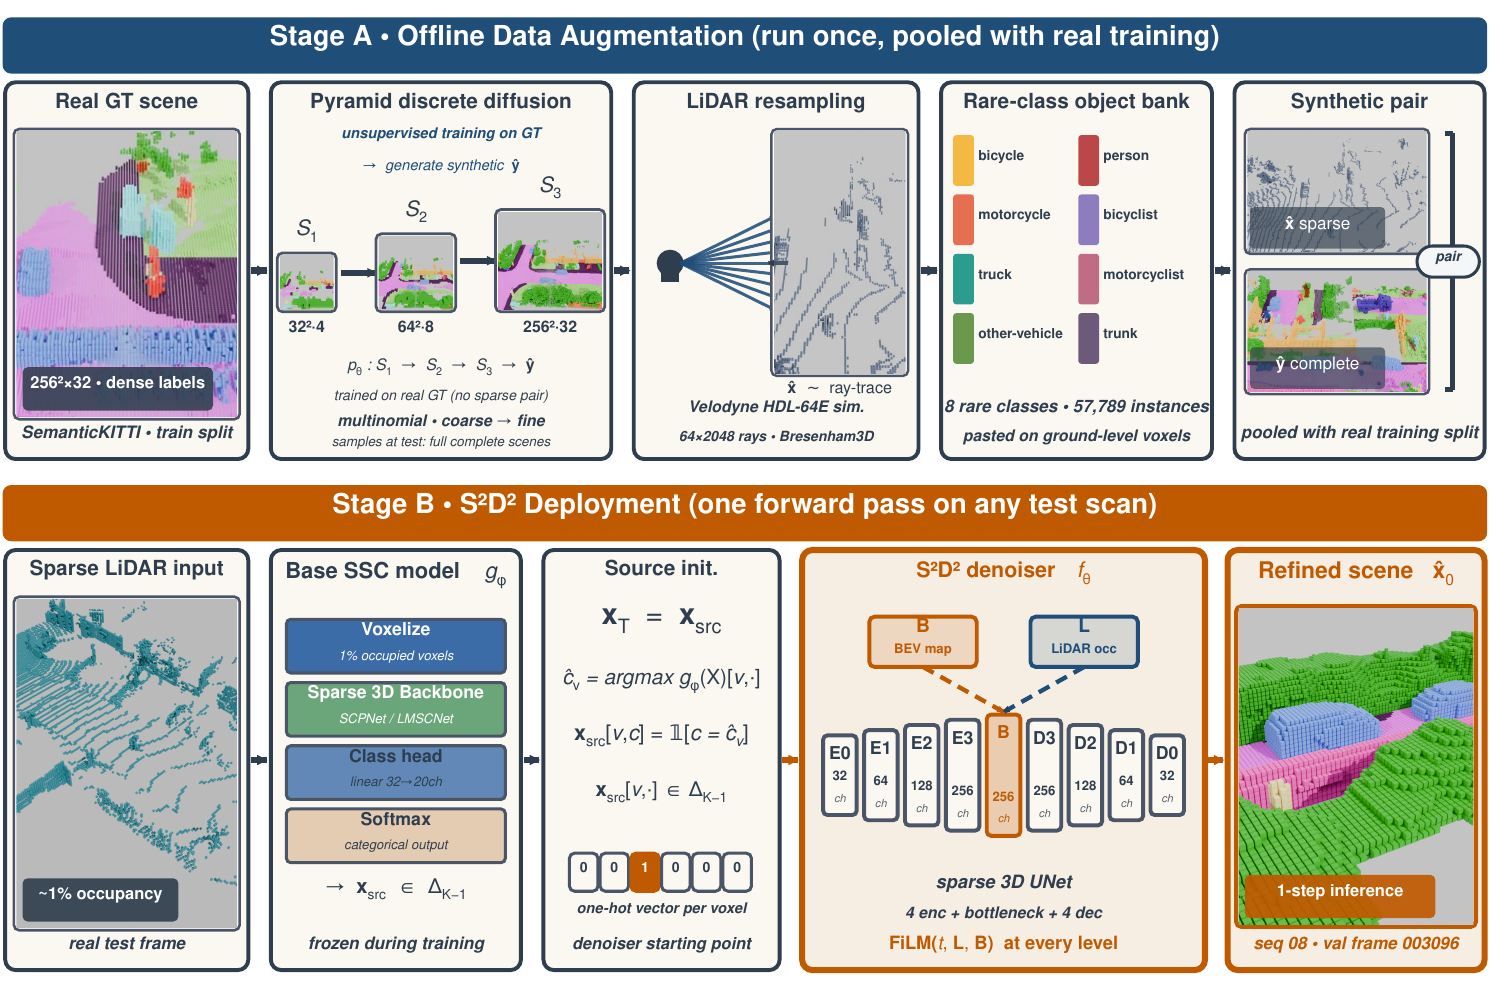
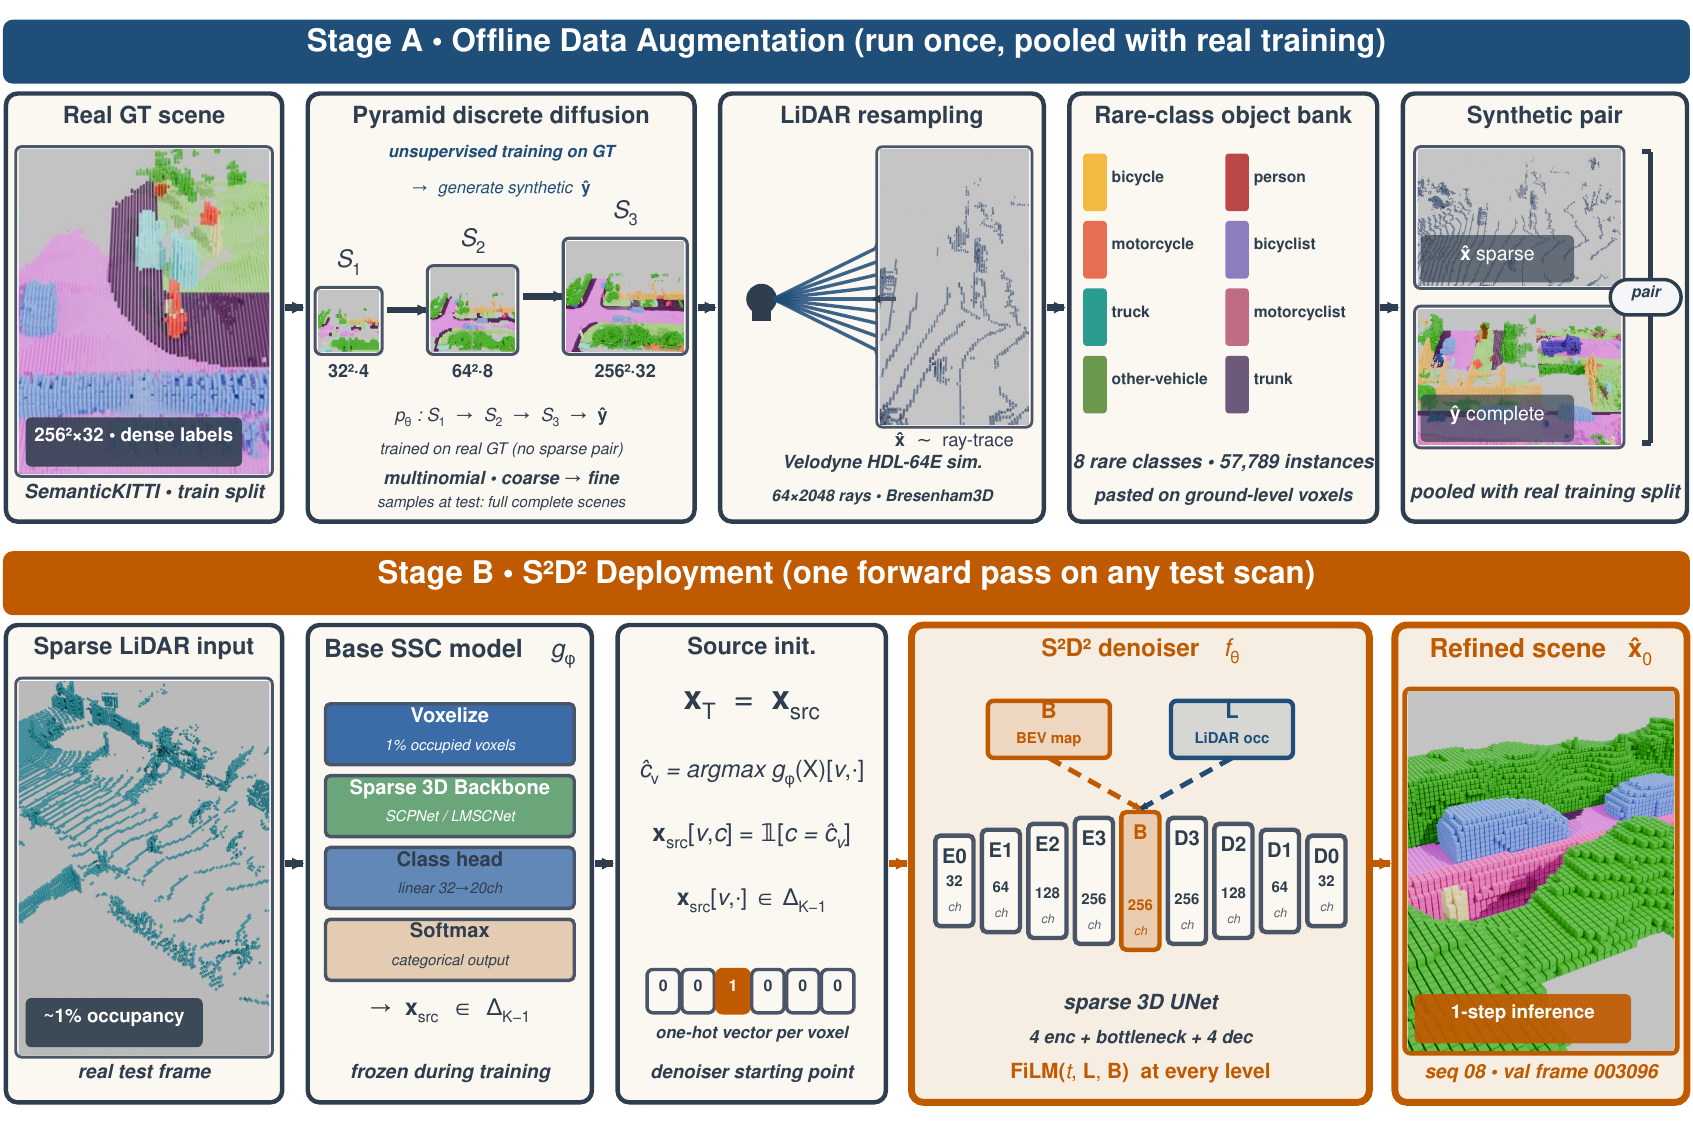
feat(data-aug): add dedicated DA section with pyramid pipeline figure + JS3C-Net cross-base evidence
- New #data-aug section between Method and 3D Viewer, featuring fig4_da_pipeline
  (the 3-stage pyramid → HDL-64E ray-trace → 57,789-instance object bank diagram
  from paper Fig. 4) with a Chinese-paper-aligned caption, 3-card grid
  (generate the dense scene / match it to a real sensor / fill the rare tail),
  and 4-stat panel (32,039 synthetic pairs · 2.67× pool · 57,789 instances ·
  +0.79 pp ablation contribution).
- Topnav gained 'Data' entry between Method and 3D Viewer.
- Abstract + method card #3 now cite the JS3C-Net cross-base result
  (22.73% → 26.72%, +3.99 pp under the official semantic-kitti-api evaluator)
  as direct empirical evidence the refinement is base-agnostic.
- New .da-stats / .da-stat / .da-tagline CSS (responsive 4-col grid collapsing
  to 2-col at 720px and 1-col at 480px; serif numerals over IBM Plex labels).
- Refresh fig2_pipeline.png and fig4_qualitative.png from the latest paper PDFs.
- Audit: chrome-headless render across 5 viewports (1440/1280/1024/768/414)
  shows 0 horizontal overflow, 0 console errors, 22 claims trace to multiple
  pages, 3 consecutive zero-issue rounds.

diff --git a/index.html b/index.html
@@ -41,6 +41,7 @@
   <ul class="topnav__links">
     <li><a href="#abstract">Abstract</a></li>
     <li><a href="#method">Method</a></li>
+    <li><a href="#data-aug">Data</a></li>
     <li><a href="#viewer">3D Viewer</a></li>
     <li><a href="#speed">Speed</a></li>
     <li><a href="#results">Results</a></li>
@@ -147,7 +148,7 @@
         Standard diffusion generates from noise. S<sup>2</sup>D<sup>2</sup> instead starts from a supervised base model&rsquo;s prediction and learns the correction that carries it to the ground truth. The reverse update is closed-form, so a single step is enough at deployment — we do not iterate, and we do not distill a multi-step schedule. We pair this core with coarse-to-fine pyramid diffusion for synthetic data augmentation and a matching BEV conditioning stream.
       </p>
       <p>
-        On the SemanticKITTI hidden test leaderboard, S<sup>2</sup>D<sup>2</sup> reaches <strong>39.2%</strong> mIoU under D<sub>4</sub> test-time augmentation and <strong>39.0%</strong> without — both establish the new LiDAR single-frame state of the art (+1.3% over TALoS, the previous best at 37.9%). On val, the same approach lifts SCPNet from 36.17% to <strong>38.54%</strong> (<strong>+2.37%</strong>); applied as a secondary task to LiDAR-only BEV perception it reaches <strong>36.09%</strong> mIoU, <strong>9.06 points</strong> above the previous best dedicated 2D method. The 1-step real-time configuration runs at <strong>9.33&nbsp;FPS</strong> marginal cost on a contention-free H100 and still hits <strong>38.8%</strong> on test — beating TALoS by +0.9% in real time without TTA.
+        On the SemanticKITTI hidden test leaderboard, S<sup>2</sup>D<sup>2</sup> reaches <strong>39.2%</strong> mIoU under D<sub>4</sub> test-time augmentation and <strong>39.0%</strong> without — both establish the new LiDAR single-frame state of the art (+1.3% over TALoS, the previous best at 37.9%). On val, the same approach lifts SCPNet from 36.17% to <strong>38.54%</strong> (<strong>+2.37%</strong>); stacked on the older point-voxel JS3C-Net base it lifts val mIoU from 22.73% to <strong>26.72%</strong> (<strong>+3.99&nbsp;pp</strong>) under the official <span class="mono">semantic-kitti-api</span> evaluator — direct evidence the refinement is base-agnostic. Applied as a secondary task to LiDAR-only BEV perception, S<sup>2</sup>D<sup>2</sup> reaches <strong>36.09%</strong> mIoU, <strong>9.06 points</strong> above the previous best dedicated 2D method. The 1-step real-time configuration runs at <strong>9.33&nbsp;FPS</strong> marginal cost on a contention-free H100 and still hits <strong>38.8%</strong> on test — beating TALoS by +0.9% in real time without TTA.
       </p>
     </div>
   </div>
@@ -207,7 +208,7 @@
         The refiner reads in the frozen base model&rsquo;s output alongside a BEV semantic map and the raw LiDAR voxelization, then emits a corrected voxel grid.
       </p>
       <p>
-        We use SCPNet as the base here; nothing in the training recipe ties it to that specific predictor. Any SSC model that outputs categorical distributions can be plugged in.
+        Empirically base-agnostic: swapping SCPNet for the older point-voxel hybrid <strong>JS3C-Net</strong> lifts val mIoU from 22.73% to <strong>26.72%</strong> (<strong>+3.99 pp</strong>) under the official <span class="mono">semantic-kitti-api</span> evaluator &mdash; a larger absolute gain than on SCPNet itself.
       </p>
     </div>
   </div>
@@ -237,6 +238,86 @@
     </figure>
   </details>
 
+</section>
+
+<!-- ============================================================
+     DATA AUGMENTATION — co-equal first contribution
+============================================================ -->
+<section id="data-aug" class="section section--wide">
+  <p class="section__eyebrow">Data side · co-equal contribution</p>
+  <h2 class="section__title">A pyramid pipeline that turns long-tail scarcity into supervised pairs.</h2>
+  <p class="section__lede">
+    SemanticKITTI puts more than 7,000&times; as many vegetation voxels in the training set as motorcyclist voxels. The model side cannot reweight its way out of that &mdash; the rare classes simply are not there to learn from. The data side runs offline, once, on top of the existing supervised set: pyramid discrete diffusion synthesises full complete scenes; a quality filter keeps the in-distribution half; an HDL-64E ray-tracer pairs each with a sparse input; a rare-class object bank fills the residual gaps. The result is an extra <strong>32,039</strong> labelled pairs that the rest of the system can train against without any change to the SSC pipeline.
+  </p>
+
+  <figure class="figure-wide figure-wide--tight">
+    <div class="figure-wide__media">
+      <img src="assets/figures/fig4_da_pipeline.png"
+           alt="Three-stage offline data-augmentation pipeline. Stage 1 — Pyramid Discrete Diffusion: three cascaded multinomial diffusions at 32²×4 → 64²×8 → 256²×32, each conditioning on the upsampled output of the previous scale; the S₃ stage tiles into overlapping 136²×32 patches merged by majority vote, then a Jensen–Shannon divergence filter keeps the top half by class-distribution similarity to real scenes. Stage 2 — LiDAR Ray-Trace Resampling: a simulated Velodyne HDL-64E (64 beams × 2,048 azimuth bins = 131,072 rays per sweep, up to 2 returns per beam, σ_r = 3 cm range noise) traverses each synthetic complete scene via Bresenham-3D to produce the matching sparse input; the highlighted beam shows the first and second returns. Stage 3 — Object Bank Paste: 57,789 rare-class instances across 8 safety-critical classes (bicycle, motorcycle, truck, other-vehicle, person, bicyclist, motorcyclist, trunk) are pasted onto ground-level voxels of every synthetic scene. The final synthetic pool is 19,130 real + 32,039 synthetic = 51,169 training pairs, a 2.67× pool expansion."
+           loading="lazy" />
+    </div>
+    <figcaption>
+      <strong>Stage&nbsp;1 &mdash; Pyramid Discrete Diffusion.</strong> Three cascaded multinomial diffusions at 32<sup>2</sup>&times;4 &rarr; 64<sup>2</sup>&times;8 &rarr; 256<sup>2</sup>&times;32, each conditioned on the upsampled prior scale; the 256<sup>2</sup>&times;32 stage tiles into 136<sup>2</sup>&times;32 patches merged by majority vote, then a Jensen&ndash;Shannon filter keeps the top half by class-distribution similarity to real scenes.
+      <strong>Stage&nbsp;2 &mdash; LiDAR Ray-Trace Resampling.</strong> A simulated Velodyne HDL-64E (64&thinsp;&times;&thinsp;2,048 = <strong>131,072</strong> rays per sweep, up to 2 returns per beam, &sigma;<sub><em>r</em></sub>=3&thinsp;cm) traverses each synthetic scene via Bresenham-3D to produce a matching sparse input.
+      <strong>Stage&nbsp;3 &mdash; Object Bank Paste.</strong> <strong>57,789</strong> rare-class instances across 8 safety-critical classes pasted onto ground-level voxels.
+      The final pool is <strong>19,130 + 32,039 = 51,169</strong> pairs (<strong>2.67&times;</strong>). Source: paper Fig.&nbsp;4.
+    </figcaption>
+  </figure>
+
+  <div class="method-grid method-grid--three">
+    <div class="method-card">
+      <h4 class="method-card__title"><span class="method-card__num">01</span> Generate the dense scene</h4>
+      <p>
+        Pyramid multinomial diffusion synthesises full <em>256<sup>2</sup>&times;32</em> labelled scenes from coarse to fine. Each scale conditions on the upsampled prior; the top scale tiles into overlapping 136<sup>2</sup>&times;32 patches merged by majority vote.
+      </p>
+      <p>
+        A Jensen&ndash;Shannon divergence filter then drops samples whose class distribution drifts away from real KITTI scenes &mdash; only the top half survives.
+      </p>
+    </div>
+
+    <div class="method-card">
+      <h4 class="method-card__title"><span class="method-card__num">02</span> Match it to a real sensor</h4>
+      <p>
+        A simulated <strong>Velodyne HDL-64E</strong> ray-tracer fires 64&thinsp;&times;&thinsp;2,048 = <strong>131,072</strong> rays per sweep across every synthetic scene, with up to two returns per beam and &sigma;<sub><em>r</em></sub>&thinsp;=&thinsp;3&thinsp;cm range noise.
+      </p>
+      <p>
+        Bresenham-3D voxel traversal produces the matching <em>sparse</em> input <span style="font-family:var(--ff-mono); color:var(--c-ink);">X&#770;</span> at the same density real LiDAR would &mdash; so the synthetic pairs look, train, and fail like real ones.
+      </p>
+    </div>
+
+    <div class="method-card">
+      <h4 class="method-card__title"><span class="method-card__num">03</span> Fill the rare tail</h4>
+      <p>
+        A pre-built bank of <strong>57,789</strong> instances across 8 safety-critical rare classes (bicycle, motorcycle, truck, other-vehicle, person, bicyclist, motorcyclist, trunk) pastes onto ground-level voxels of every synthetic scene.
+      </p>
+      <p>
+        Placement passes three legality checks: in-bounds within the 256<sup>2</sup>&times;32 grid, no-collision with existing non-empty voxels of a different class, and grounded on road / sidewalk / parking / terrain.
+      </p>
+    </div>
+  </div>
+
+  <div class="da-stats">
+    <div class="da-stat">
+      <span class="da-stat__value">32,039</span>
+      <span class="da-stat__label">extra labelled pairs synthesised offline</span>
+    </div>
+    <div class="da-stat">
+      <span class="da-stat__value">2.67<small>&times;</small></span>
+      <span class="da-stat__label">training-pool expansion (19,130&rarr;51,169)</span>
+    </div>
+    <div class="da-stat">
+      <span class="da-stat__value">57,789</span>
+      <span class="da-stat__label">rare-class instances across 8 safety classes</span>
+    </div>
+    <div class="da-stat da-stat--accent">
+      <span class="da-stat__value">+0.79<small>%</small></span>
+      <span class="da-stat__label">val&nbsp;mIoU contribution &mdash; paper Tab.&nbsp;6 ablation</span>
+    </div>
+  </div>
+
+  <p class="da-tagline">
+    The pipeline is decoupled from the SSC model: any voxel-grid LiDAR perception task that shares the long-tail pathology can reuse it. We release the 32K synthetic pool alongside the headline checkpoint.
+  </p>
 </section>
 
 <!-- ============================================================

diff --git a/styles/components.css b/styles/components.css
@@ -618,3 +618,73 @@
   line-height: 1.7;
 }
 .safety-card__foot strong { color: var(--c-ink); font-weight: 500; }
+
+/* ---- Data-augmentation stat panel ---- */
+.da-stats {
+  margin-top: var(--s-6);
+  display: grid;
+  grid-template-columns: repeat(auto-fit, minmax(220px, 1fr));
+  gap: var(--s-1);
+  background: var(--c-bg-elev);
+  border: 1px solid var(--c-line);
+  border-radius: var(--radius-lg);
+  overflow: hidden;
+}
+.da-stat {
+  padding: var(--s-5) var(--s-5);
+  display: flex;
+  flex-direction: column;
+  gap: var(--s-2);
+  background: var(--c-bg-elev);
+  position: relative;
+}
+/* faint divider between adjacent stats — works in row direction */
+.da-stat + .da-stat::before {
+  content: "";
+  position: absolute;
+  inset: var(--s-4) 0 var(--s-4) 0;
+  border-left: 1px solid var(--c-line);
+}
+.da-stat__value {
+  font-family: var(--ff-display);
+  font-size: clamp(2rem, 4vw, 2.8rem);
+  line-height: 1;
+  color: var(--c-ink);
+  letter-spacing: -0.01em;
+  font-feature-settings: "tnum" 1;
+}
+.da-stat__value small {
+  font-family: var(--ff-mono);
+  font-size: 0.42em;
+  color: var(--c-ink-dim);
+  margin-left: 2px;
+  letter-spacing: 0;
+}
+.da-stat__label {
+  font-family: var(--ff-sans);
+  font-size: var(--fs-sm);
+  color: var(--c-ink-mute);
+  line-height: 1.45;
+}
+.da-stat--accent .da-stat__value { color: var(--c-accent); }
+.da-stat--accent .da-stat__value small { color: var(--c-accent-deep); }
+.da-stat--accent { background: linear-gradient(180deg, var(--c-accent-bg) 0%, transparent 100%); }
+
+.da-tagline {
+  margin-top: var(--s-5);
+  padding: var(--s-4) var(--s-5);
+  border-left: 2px solid var(--c-accent);
+  background: var(--c-bg-faint);
+  color: var(--c-ink-mute);
+  font-size: var(--fs-sm);
+  line-height: 1.7;
+  font-style: italic;
+}
+.da-tagline strong { color: var(--c-ink); font-weight: 500; font-style: normal; }
+@media (max-width: 720px) {
+  .da-stat + .da-stat::before { display: none; }
+  .da-stats { grid-template-columns: 1fr 1fr; }
+}
+@media (max-width: 480px) {
+  .da-stats { grid-template-columns: 1fr; }
+}
